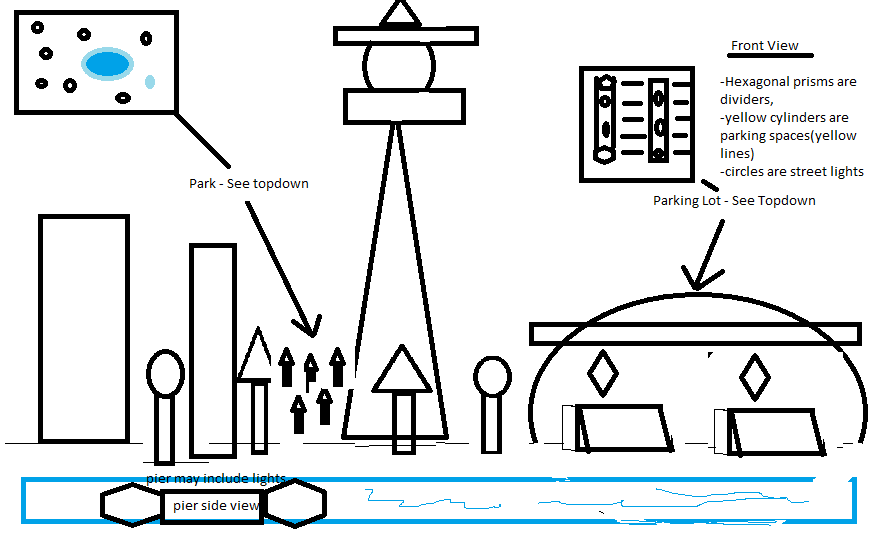
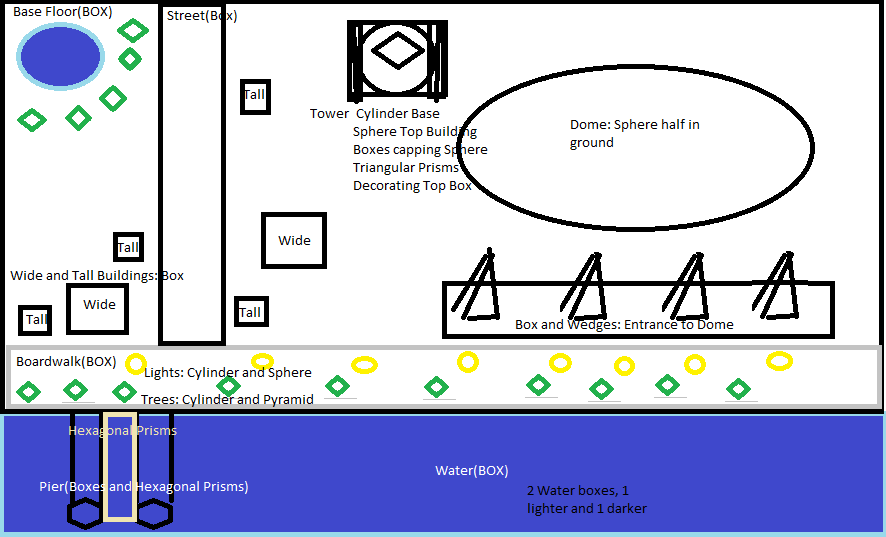
redo picture

diff --git a/3DgfxA-1/Samples/00-CitySkyline/ShapesApp.cs b/3DgfxA-1/Samples/00-CitySkyline/ShapesApp.cs
@@ -402,7 +402,7 @@ namespace DX12GameProgramming
             //Primitives
             SubmeshGeometry box = AppendMeshData(GeometryGenerator.CreateBox(1.5f, 0.5f, 1.5f, 3), Color.DarkGreen, vertices, indices);
             SubmeshGeometry grid = AppendMeshData(GeometryGenerator.CreateGrid(50.0f, 15.0f , 2, 40), Color.ForestGreen, vertices,indices);
-            SubmeshGeometry sphere = AppendMeshData(GeometryGenerator.CreateSphere(0.5f, 20, 20), Color.Crimson, vertices, indices);
+            SubmeshGeometry sphere = AppendMeshData(GeometryGenerator.CreateSphere(5.5f, 40, 40), Color.LightSeaGreen, vertices, indices);
             SubmeshGeometry cylinder = AppendMeshData(GeometryGenerator.CreateCylinder(0.5f, 0.3f, 3.0f, 20, 20), Color.SteelBlue, vertices, indices);
             SubmeshGeometry pyramid = AppendMeshData(GeometryGenerator.Pyramid(1.5f, 0.5f, 1.5f, 3), Color.Purple, vertices, indices);
             SubmeshGeometry wedge = AppendMeshData(GeometryGenerator.Wedge(1.5f, 0.5f, 1.5f, 3), Color.RosyBrown, vertices, indices);
@@ -414,16 +414,40 @@ namespace DX12GameProgramming
             SubmeshGeometry water = AppendMeshData(GeometryGenerator.CreateBox(35.0f, 0.2f, 6.5f, 3), Color.LightBlue, vertices, indices);
             SubmeshGeometry water2 = AppendMeshData(GeometryGenerator.CreateBox(35.0f, 0.5f, 6.5f, 3), Color.Blue, vertices, indices);
             SubmeshGeometry pierBorder = AppendMeshData(GeometryGenerator.HexagonalPrism(0.5f, 0.1f, 2.5f, 3), Color.SlateGray, vertices, indices);
-            SubmeshGeometry pierBox = AppendMeshData(GeometryGenerator.CreateBox(2.5f, 0.5f, 7.5f, 3), Color.Black, vertices, indices);
+            SubmeshGeometry pierBox = AppendMeshData(GeometryGenerator.CreateBox(2.5f, 0.5f, 7.5f, 3), Color.LightSeaGreen, vertices, indices);
             //Main Concrete Floor
-            SubmeshGeometry floor = AppendMeshData(GeometryGenerator.CreateBox(35, 0.5f, 20f, 3), Color.Black, vertices, indices);
+            SubmeshGeometry floor = AppendMeshData(GeometryGenerator.CreateBox(35, 0.5f, 20f, 36), Color.Black, vertices, indices);
             //Trees and Lights
             SubmeshGeometry treeBase = AppendMeshData(GeometryGenerator.CreateCylinder(0.15f, .05f, 1.0f, 20, 20), Color.SaddleBrown, vertices, indices);
             SubmeshGeometry treeTop = AppendMeshData(GeometryGenerator.CreateCone(0.5f, 0.3f, 1.5f, 20, 20), Color.ForestGreen, vertices, indices);
+            SubmeshGeometry treeTop2 = AppendMeshData(GeometryGenerator.Diamond(0.5f, 0.3f, 0.5f, 3), Color.DarkOliveGreen, vertices, indices);
+            SubmeshGeometry treeTop3 = AppendMeshData(GeometryGenerator.Pyramid(1.5f, 0.3f, 1.5f, 3), Color.DarkOrange, vertices, indices);
             SubmeshGeometry lightBase = AppendMeshData(GeometryGenerator.CreateCylinder(0.15f, .05f, 1.0f, 20, 20), Color.LightSlateGray, vertices, indices);
             SubmeshGeometry lightLight = AppendMeshData(GeometryGenerator.CreateSphere(0.2f, 20, 20), Color.LightGoldenrodYellow, vertices, indices);
             //boardwalk 
-            SubmeshGeometry boardwalk = AppendMeshData(GeometryGenerator.CreateBox(35.0f, 0.5f, 2.5f, 12), Color.DarkGray, vertices, indices);
+            SubmeshGeometry boardwalk = AppendMeshData(GeometryGenerator.CreateBox(35.0f, 0.5f, 2.5f, 24), Color.DarkGray, vertices, indices);
+            //Street North
+            SubmeshGeometry street0 = AppendMeshData(GeometryGenerator.CreateBox(3.0f, 0.5f, 18.0f, 24), Color.DarkGray, vertices, indices);
+            //Square Buildings
+            SubmeshGeometry buildingL = AppendMeshData(GeometryGenerator.CreateBox(1.5f, 9.5f, 1.5f, 3), Color.DimGray, vertices, indices);
+            SubmeshGeometry buildingS = AppendMeshData(GeometryGenerator.CreateBox(3.5f, 7.5f, 3.5f, 3), Color.BlanchedAlmond, vertices, indices);
+            //Pool of water - Park special
+            SubmeshGeometry pool = AppendMeshData(GeometryGenerator.CreateCylinder(3.5f, -0.1f, 1.1f, 20, 20), Color.SteelBlue, vertices, indices);
+            //GBC Tower
+            SubmeshGeometry towerBase = AppendMeshData(GeometryGenerator.CreateCylinder(1.5f, 1.1f, 22.0f, 20, 20), Color.SteelBlue, vertices, indices);
+            //Tower top boxes
+            SubmeshGeometry towerBox = AppendMeshData(GeometryGenerator.CreateBox(4.5f, 0.4f, 4.5f, 3), Color.MediumSeaGreen, vertices, indices);
+            //Tower Sphere
+            SubmeshGeometry towerSphere = AppendMeshData(GeometryGenerator.CreateSphere(1.75f, 40, 40), Color.MediumPurple, vertices, indices);
+            //Tower Top Cap
+            SubmeshGeometry towerCap = AppendMeshData(GeometryGenerator.Diamond(2.5f, 2.5f, 2.5f, 3), Color.PaleVioletRed, vertices, indices);
+            //Tower Borders
+            SubmeshGeometry towerBorders = AppendMeshData(GeometryGenerator.TriangularPrism(0.2f, 0.5f, 1.55f, 3), Color.Gold, vertices, indices);
+            //Dome Box
+            SubmeshGeometry domeBox = AppendMeshData(GeometryGenerator.CreateBox(8.2f, 1.25f, 1.15f, 3), Color.IndianRed, vertices, indices);
+            //Dome Wedge
+            SubmeshGeometry domeWedge = AppendMeshData(GeometryGenerator.Wedge(0.2f, 0.25f, 0.05f, 3), Color.DeepPink, vertices, indices);
+
             var geo = MeshGeometry.New(Device, CommandList, vertices, indices.ToArray(), "shapeGeo");
 
             geo.DrawArgs["box"] = box;
@@ -443,10 +467,22 @@ namespace DX12GameProgramming
             geo.DrawArgs["floor"] = floor;
             geo.DrawArgs["treeBase"] = treeBase;
             geo.DrawArgs["treeTop"] = treeTop;
+            geo.DrawArgs["treeTop2"] = treeTop2;
+            geo.DrawArgs["treeTop3"] = treeTop3;
             geo.DrawArgs["lightBase"] = lightBase;
             geo.DrawArgs["lightLight"] = lightLight;
             geo.DrawArgs["boardwalk"] = boardwalk;
-
+            geo.DrawArgs["buildingL"] = buildingL;
+            geo.DrawArgs["buildingS"] = buildingS;
+            geo.DrawArgs["street0"] = street0;
+            geo.DrawArgs["pool"] = pool;
+            geo.DrawArgs["towerBase"] = towerBase;
+            geo.DrawArgs["towerBox"] = towerBox;
+            geo.DrawArgs["towerSphere"] = towerSphere;
+            geo.DrawArgs["towerCap"] = towerCap;
+            geo.DrawArgs["towerBorders"] = towerBorders;
+            geo.DrawArgs["domeBox"] = domeBox;
+            geo.DrawArgs["domeWedge"] = domeWedge;
             _geometries[geo.Name] = geo;
         }
 
@@ -545,7 +581,34 @@ namespace DX12GameProgramming
             //boardwalk
             AddRenderItem(RenderLayer.Opaque, objCBIndex++, "shapeGeo", "boardwalk",
             world: Matrix.Translation(3, -1.4f, 2.5f));
-
+            //streete
+            AddRenderItem(RenderLayer.Opaque, objCBIndex++, "shapeGeo", "street0",
+            world: Matrix.Translation(-3.5f, -1.4f, 12.5f));
+            //pool
+            AddRenderItem(RenderLayer.Opaque, objCBIndex++, "shapeGeo", "pool",
+           world: Matrix.Translation(-11.0f, -1.2f, 16.5f));
+            //Poolside trees
+            AddRenderItem(RenderLayer.Opaque, objCBIndex++, "shapeGeo", "treeBase",
+              world: Matrix.Translation(-11, -0.75f, 11.55f));
+            AddRenderItem(RenderLayer.Opaque, objCBIndex++, "shapeGeo", "treeTop3",
+              world: Matrix.Translation(-11, 0.25f, 11.55f));
+            AddRenderItem(RenderLayer.Opaque, objCBIndex++, "shapeGeo", "treeBase",
+              world: Matrix.Translation(-13, -0.75f, 12.55f));
+            AddRenderItem(RenderLayer.Opaque, objCBIndex++, "shapeGeo", "treeTop2",
+              world: Matrix.Translation(-13, 0.25f, 12.55f));
+            
+            AddRenderItem(RenderLayer.Opaque, objCBIndex++, "shapeGeo", "treeBase",
+              world: Matrix.Translation(-7, -0.75f, 14.55f));
+            AddRenderItem(RenderLayer.Opaque, objCBIndex++, "shapeGeo", "treeTop3",
+              world: Matrix.Translation(-7, 0.25f, 14.55f));
+            AddRenderItem(RenderLayer.Opaque, objCBIndex++, "shapeGeo", "treeBase",
+              world: Matrix.Translation(-6, -0.75f, 16.55f));
+            AddRenderItem(RenderLayer.Opaque, objCBIndex++, "shapeGeo", "treeTop2",
+              world: Matrix.Translation(-6, 0.25f, 16.55f));
+            AddRenderItem(RenderLayer.Opaque, objCBIndex++, "shapeGeo", "treeBase",
+              world: Matrix.Translation(-9, -0.75f, 12.55f));
+            AddRenderItem(RenderLayer.Opaque, objCBIndex++, "shapeGeo", "treeTop",
+              world: Matrix.Translation(-9, 0.25f, 12.55f));
             //Lakeside Treeline/Lights
             for (int i = 0; i < 8; i++)
             {
@@ -561,6 +624,50 @@ namespace DX12GameProgramming
                 AddRenderItem(RenderLayer.Opaque, objCBIndex++, "shapeGeo", "lightLight",
                world: Matrix.Translation(-11 + i * 4.5f, -0.1f, 4.25f));
             }
+
+            //Buildings, Large
+            AddRenderItem(RenderLayer.Opaque, objCBIndex++, "shapeGeo", "buildingL",
+             world: Matrix.Translation(-12, 3, 6.25f));
+            AddRenderItem(RenderLayer.Opaque, objCBIndex++, "shapeGeo", "buildingL",
+             world: Matrix.Translation(-6, 3, 9.25f));
+            AddRenderItem(RenderLayer.Opaque, objCBIndex++, "shapeGeo", "buildingL",
+            world: Matrix.Translation(1, 3, 7.25f));
+            AddRenderItem(RenderLayer.Opaque, objCBIndex++, "shapeGeo", "buildingL",
+            world: Matrix.Translation(1, 3, 15.25f));
+            //Buildings, Small
+            AddRenderItem(RenderLayer.Opaque, objCBIndex++, "shapeGeo", "buildingS",
+            world: Matrix.Translation(-8, 2.25f, 6.25f));
+            AddRenderItem(RenderLayer.Opaque, objCBIndex++, "shapeGeo", "buildingS",
+            world: Matrix.Translation(2, 2.25f, 12.25f));
+            //Dome
+            AddRenderItem(RenderLayer.Opaque, objCBIndex++, "shapeGeo", "sphere",
+            world: Matrix.Translation(12, -1, 12.25f));
+            AddRenderItem(RenderLayer.Opaque, objCBIndex++, "shapeGeo", "domeBox",
+            world: Matrix.Translation(12, -1, 6.25f));
+            AddRenderItem(RenderLayer.Opaque, objCBIndex++, "shapeGeo", "domeWedge",
+            world: Matrix.Translation(9, 1, 6.25f));
+            AddRenderItem(RenderLayer.Opaque, objCBIndex++, "shapeGeo", "domeWedge",
+            world: Matrix.Translation(12, 1, 6.25f));
+            AddRenderItem(RenderLayer.Opaque, objCBIndex++, "shapeGeo", "domeWedge",
+            world: Matrix.Translation(15, 1, 6.25f));
+            //Tower
+            AddRenderItem(RenderLayer.Opaque, objCBIndex++, "shapeGeo", "towerBase",
+            world: Matrix.Translation(8, 9.5f, 18.25f));
+            AddRenderItem(RenderLayer.Opaque, objCBIndex++, "shapeGeo", "towerBox",
+            world: Matrix.Translation(8, 21.5f, 18.25f));
+            AddRenderItem(RenderLayer.Opaque, objCBIndex++, "shapeGeo", "towerBox",
+            world: Matrix.Translation(8, 19.5f, 18.25f));
+            AddRenderItem(RenderLayer.Opaque, objCBIndex++, "shapeGeo", "towerSphere",
+            world: Matrix.Translation(8, 20.5f, 18.25f));
+            AddRenderItem(RenderLayer.Opaque, objCBIndex++, "shapeGeo", "towerCap",
+            world: Matrix.Translation(8, 25.5f, 18.25f));
+            AddRenderItem(RenderLayer.Opaque, objCBIndex++, "shapeGeo", "towerBorders",
+           world: Matrix.Translation(6, 22.25f, 18.00f));
+            AddRenderItem(RenderLayer.Opaque, objCBIndex++, "shapeGeo", "towerBorders",
+          world: Matrix.Translation(10, 22.25f, 18.00f));
+        //Dome Ramps
+            
+
 
             //KEEP BELOW FOR REFERENCE 
             //AddRenderItem(RenderLayer.Opaque, 0, "shapeGeo", "box",

diff --git a/3DgfxA-1/Common/GeometryGenerator.cs b/3DgfxA-1/Common/GeometryGenerator.cs
@@ -137,9 +137,9 @@ namespace DX12GameProgramming
             // Create the vertices.
             //
 
-            var w2 = 1.5f * width;
-            var h2 = 4.5f * height;
-            var d2 = 1.5f * depth;
+            var w2 = 0.5f * width;
+            var h2 = 0.5f * height;
+            var d2 = 0.5f * depth;
 
 
             // Fill in the front face vertex data.
@@ -177,7 +177,7 @@ namespace DX12GameProgramming
             //
 
             var w2 = 1.5f * width;
-            var h2 = 4.5f * height;
+            var h2 = 1.5f * height;
             var d2 = 1.5f * depth;
 
 
